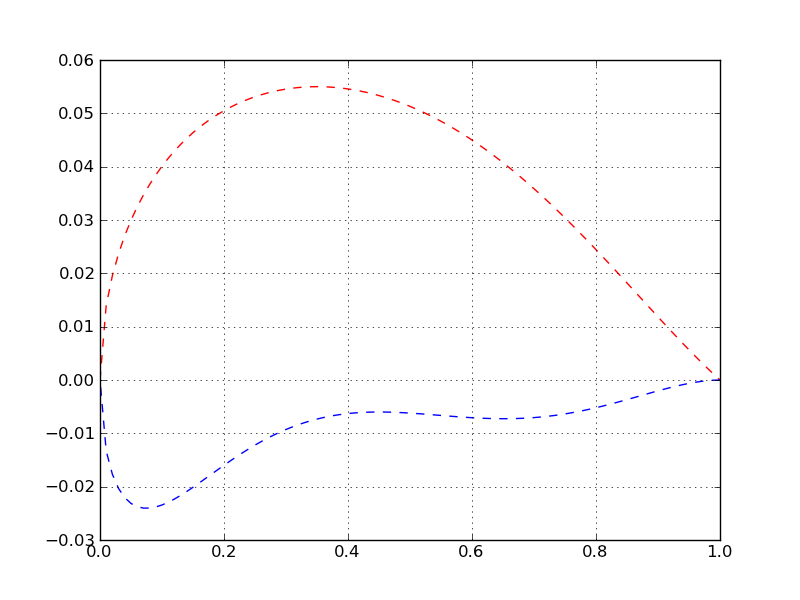
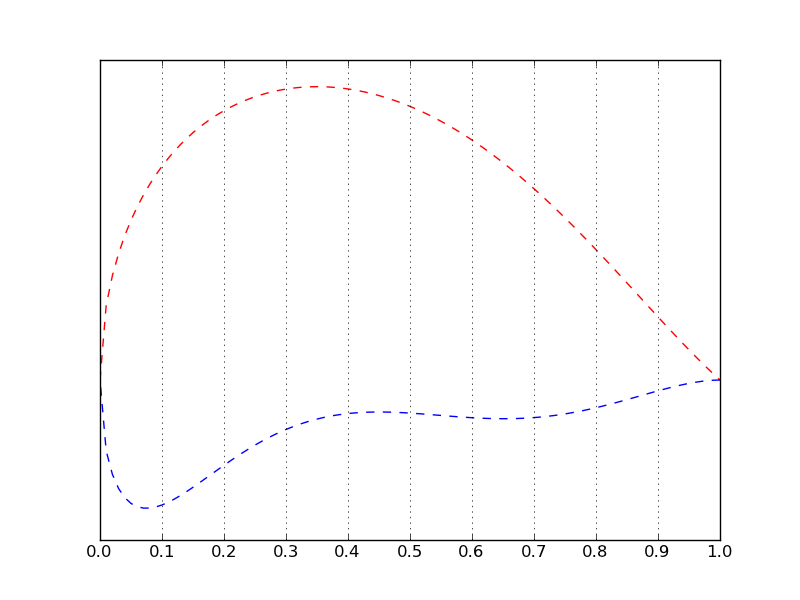
code updates

diff --git a/parsecairfoils.py b/parsecairfoils.py
@@ -1,17 +1,12 @@
-# title: 
-# parsec airfoils
+# Generate and plot the contour of an airfoil 
+# using the PARSEC parameterization
 
-# purpose:
-# 
-
-# repository:
-# http://github.com/dqsis/xxx
-
+# Repository & documentation:
+# http://github.com/dqsis/parsec-airfoils
 # -------------------------------------
 
-# START +++
 
-# import libraries
+# Import libraries
 from __future__ import division
 import os
 from sys import exit
@@ -21,56 +16,61 @@ import matplotlib.pyplot as plt
 
 import parseccoef as pc
 
-# i/o files path
+
+# I/O files path
 path = 'data/'
 
-# read PARSEC parameters
-pp = 'parsec_parameters.csv'
-pparray = np.genfromtxt(os.path.join(path,pp), delimiter=';', dtype = float, skiprows=1)
 
-# 'normalized' airfoil (chord = 1)
+# Read parsec parameters (user input) & assign to array
+pp = 'parsec_parameters.csv'
+pparray = np.genfromtxt(os.path.join(path,pp), delimiter=';', 
+                        dtype = float, skiprows=1)
+
+
+# TE & LE of airfoil (normalized, chord = 1)
 xle = 0.0
 yle = 0.0
 xte = 1.0
 yte = 0.0
 
-# leading edge
+# LE radius
 rle = pparray[0]
 
-# pressure side (down)
+# Pressure (lower) surface parameters 
 x_pre = pparray[1]
 y_pre = pparray[2]
 d2ydx2_pre = pparray[3]
 th_pre = pparray[4]
 
-# suction side (up)
+# Suction (upper) surface parameters
 x_suc = pparray[5]
 y_suc = pparray[6]
 d2ydx2_suc = pparray[7]
 th_suc = pparray[8]
 
-# evaluate pressure (lower) surface parsec coefficients
+
+# Evaluate pressure (lower) surface coefficients
 cf_pre = pc.pcoef(xte,yte,rle,
                   x_pre,y_pre,d2ydx2_pre,th_pre,
                   'pre')
 
-# evaluate suction (upper) surface parsec coefficients
+# Evaluate suction (upper) surface coefficients
 cf_suc = pc.pcoef(xte,yte,rle,
                   x_suc,y_suc,d2ydx2_suc,th_suc,
                   'suc')
 
-# pressure (lower) surface points
+
+# Evaluate pressure (lower) surface points
 xx_pre = np.linspace(xte,xle,101)
 yy_pre = (cf_pre[0]*xx_pre**(1/2) + 
           cf_pre[1]*xx_pre**(3/2) + 
           cf_pre[2]*xx_pre**(5/2) + 
           cf_pre[3]*xx_pre**(7/2) + 
           cf_pre[4]*xx_pre**(9/2) + 
-          cf_pre[5]*xx_pre**(11/2) 
+          cf_pre[5]*xx_pre**(11/2)
          ) 
-         
 
-# suction (upper) surface points
+# Evaluate suction (upper) surface points
 xx_suc = np.linspace(xle,xte,101)
 yy_suc = (cf_suc[0]*xx_suc**(1/2) + 
           cf_suc[1]*xx_suc**(3/2) + 
@@ -80,21 +80,21 @@ yy_suc = (cf_suc[0]*xx_suc**(1/2) +
           cf_suc[5]*xx_suc**(11/2)
          ) 
          
-# plots
+         
+# Plot airfoil contour
 plt.figure()
 
-# age vs weight
-plt.plot(\
-xx_suc,yy_suc,'r--',
-xx_pre,yy_pre,'b--')
+plt.plot(xx_suc,yy_suc,'r--',
+         xx_pre,yy_pre,'b--'
+        )
 
 plt.grid(True)
 plt.xlim([0,1])
+plt.yticks([])
+plt.xticks(np.arange(0,1.1,0.1))
 
-# show graphs
+# Show & save graphs
 plt.show()
 
 plt.savefig(os.path.join(path,'parsec_airfoil.pdf'))
 plt.savefig(os.path.join(path,'parsec_airfoil.png'))
-
-# END +++

diff --git a/parseccoef.py b/parseccoef.py
@@ -1,25 +1,39 @@
+# Import libraries
 from math import sqrt, tan, pi
-import numpy as np                                                                                          
+import numpy as np
 
+# User function pcoef
 def pcoef(
         xte,yte,rle,
         x_cre,y_cre,d2ydx2_cre,th_cre,
         surface):
     
-    """evaluate the parsec coefficients"""
 
+    # Docstrings
+    """evaluate the PARSEC coefficients"""
+
+
+    # Initialize coefficients
     coef = np.zeros(6)
+
+
+    # 1st coefficient depends on surface (pressure or suction)
     if surface.startswith('p'):
         coef[0] = -sqrt(2*rle)
     else:
         coef[0] = sqrt(2*rle)
  
+    # Form system of equations
     A = np.array([
                  [xte**1.5, xte**2.5, xte**3.5, xte**4.5, xte**5.5],
-                 [x_cre**1.5, x_cre**2.5, x_cre**3.5, x_cre**4.5, x_cre**5.5],
-                 [1.5*sqrt(xte), 2.5*xte**1.5, 3.5*xte**2.5, 4.5*xte**3.5, 5.5*xte**4.5],
-                 [1.5*sqrt(x_cre), 2.5*x_cre**1.5, 3.5*x_cre**2.5, 4.5*x_cre**3.5, 5.5*x_cre**4.5],
-                 [0.75*(1/sqrt(x_cre)), 3.75*sqrt(x_cre), 8.75*x_cre**1.5, 15.75*x_cre**2.5, 24.75*x_cre**3.5]
+                 [x_cre**1.5, x_cre**2.5, x_cre**3.5, x_cre**4.5, 
+                  x_cre**5.5],
+                 [1.5*sqrt(xte), 2.5*xte**1.5, 3.5*xte**2.5, 
+                  4.5*xte**3.5, 5.5*xte**4.5],
+                 [1.5*sqrt(x_cre), 2.5*x_cre**1.5, 3.5*x_cre**2.5, 
+                  4.5*x_cre**3.5, 5.5*x_cre**4.5],
+                 [0.75*(1/sqrt(x_cre)), 3.75*sqrt(x_cre), 8.75*x_cre**1.5, 
+                  15.75*x_cre**2.5, 24.75*x_cre**3.5]
                  ]) 
 
     B = np.array([
@@ -30,12 +44,14 @@ def pcoef(
                  [d2ydx2_cre + 0.25*coef[0]*x_cre**(-1.5)]
                  ])
     
-    # solve parsec system of linear equations
+
+    # Solve system of linear equations
     X = np.linalg.solve(A,B) 
 
-    # gather all coefficients
+
+    # Gather all coefficients
     coef[1:6] = X[0:5,0]
 
-    # return coefficients
+
+    # Return coefficients
     return coef
-      

diff --git a/README.md b/README.md
@@ -1,17 +1,66 @@
-Leading and trailing edge coordinates
-xle = 0.0       
-yle = 0.0       
-xte = 1.0       
-yte = 0.0       
-                
-rle: Leading edge radius
-                                
-x_pre: x-location of minimum point on the lower (pressure) surface
-y_pre: y-location of minimum point on the lower (pressure) surface
-d2ydx2_pre: 2nd derivative at the location of the minimum point on the lower (pressure) surface
-th_pre: Trailing edge angle between the lower (pressure) surface and the horizontal axis
-                                                
-x_suc: x-location of maximum [Y] point on the upper (suction) surface
-y_suc: y-location of maximum [Y] point on the upper (suction) surface
-d2ydx2_suc: 2nd derivative at the location of the maximum [Y] point on the upper (suction) surface
-th_suc: Trailing edge angle between the upper (suction) surface and the horizontal axis
+parsecairfoils.py
+=================
+
+
+What is it
+----------
+`parsecairfoils.py` is a python script that generates and plots the contour of an airfoil using the *PARSEC* parameterization. 
+
+PARSEC is a common method for airfoil parameterization. 
+It has the advantange of strict control over important aerodynamic features, and it allows independent control over the airfoil geometry for imposing shape constraints. 
+More on the PARSEC parameterization can be found in the following article:
+[H. Sobieczky, *'Parametric airfoils and wings'* in *Notes on Numerical Fluid Mechanics*, Vol. 68, pp 71-88](www.as.dlr.de/hs/h-pdf/H141.pdf) 
+
+
+Main features
+-------------
+
+The script, using as input data the following *11* airfoil geometric characteristics:
+
+* leading edge radius (r_LE)
+* pressure and suction surface crest locations (x_pre, y_pre, x_suc, y_suc)
+* curvatures at the pressure and suction surface crest locations (d2y/dx2_pre, d2y/dx2_suc)
+* trailing edge coordinates (x_TE, y_TE)
+* Trailing edge angles between the pressure and suction surface and the horizontal axis (th_pre, th_suc)
+
+generates and plots the contour of an airfoil - as shown in [this example](https://github.com/dqsis/parsec-airfoils/blob/master/data/parsec_airfoil.png). 
+ 
+
+Where to get it
+---------------
+
+The source code is hosted on GitHub at: [http://github.com/dqsis/parsec-airfoils](http://github.com/dqsis/parsec-airfoils).
+
+
+Dependencies
+------------
+
+* [NumPy](http://www.numpy.org) - for array objects and mathematical operations
+* [matplotlib](http://matplotlib.org) - for plots
+
+
+Documentation
+-------------
+
+The only input required by `parsecairfoils.py` are the 11 PARSEC parameters (found in the file [data/parsec_parameters.csv](http://github.com/dqsis/parsec-airfoils/blob/master/data/parsec_parameters.csv)).
+Note that `parsecairfoils.py` uses additionally the module `parseccoef.py` which contains the user function *pcoef*. 
+`pcoef` formulates and solve the system that generates the coefficients of the PARSEC polynomial.  
+
+
+Discussion and development
+--------------------------
+
+Currently, the script is considered complete. No additional development ideas. 
+
+
+Licence
+-------
+
+This work is licensed under a [Creative Commons Attribution-NonCommercial-ShareAlike 3.0 Unported License](http://creativecommons.org/licenses/by-nc-sa/3.0/deed.en_US).
+
+
+Contact
+-------
+
+[Mail](http://dqsis.com/contact/)
+[Twitter (@dqsis)](http://twitter.com/dqsis)
